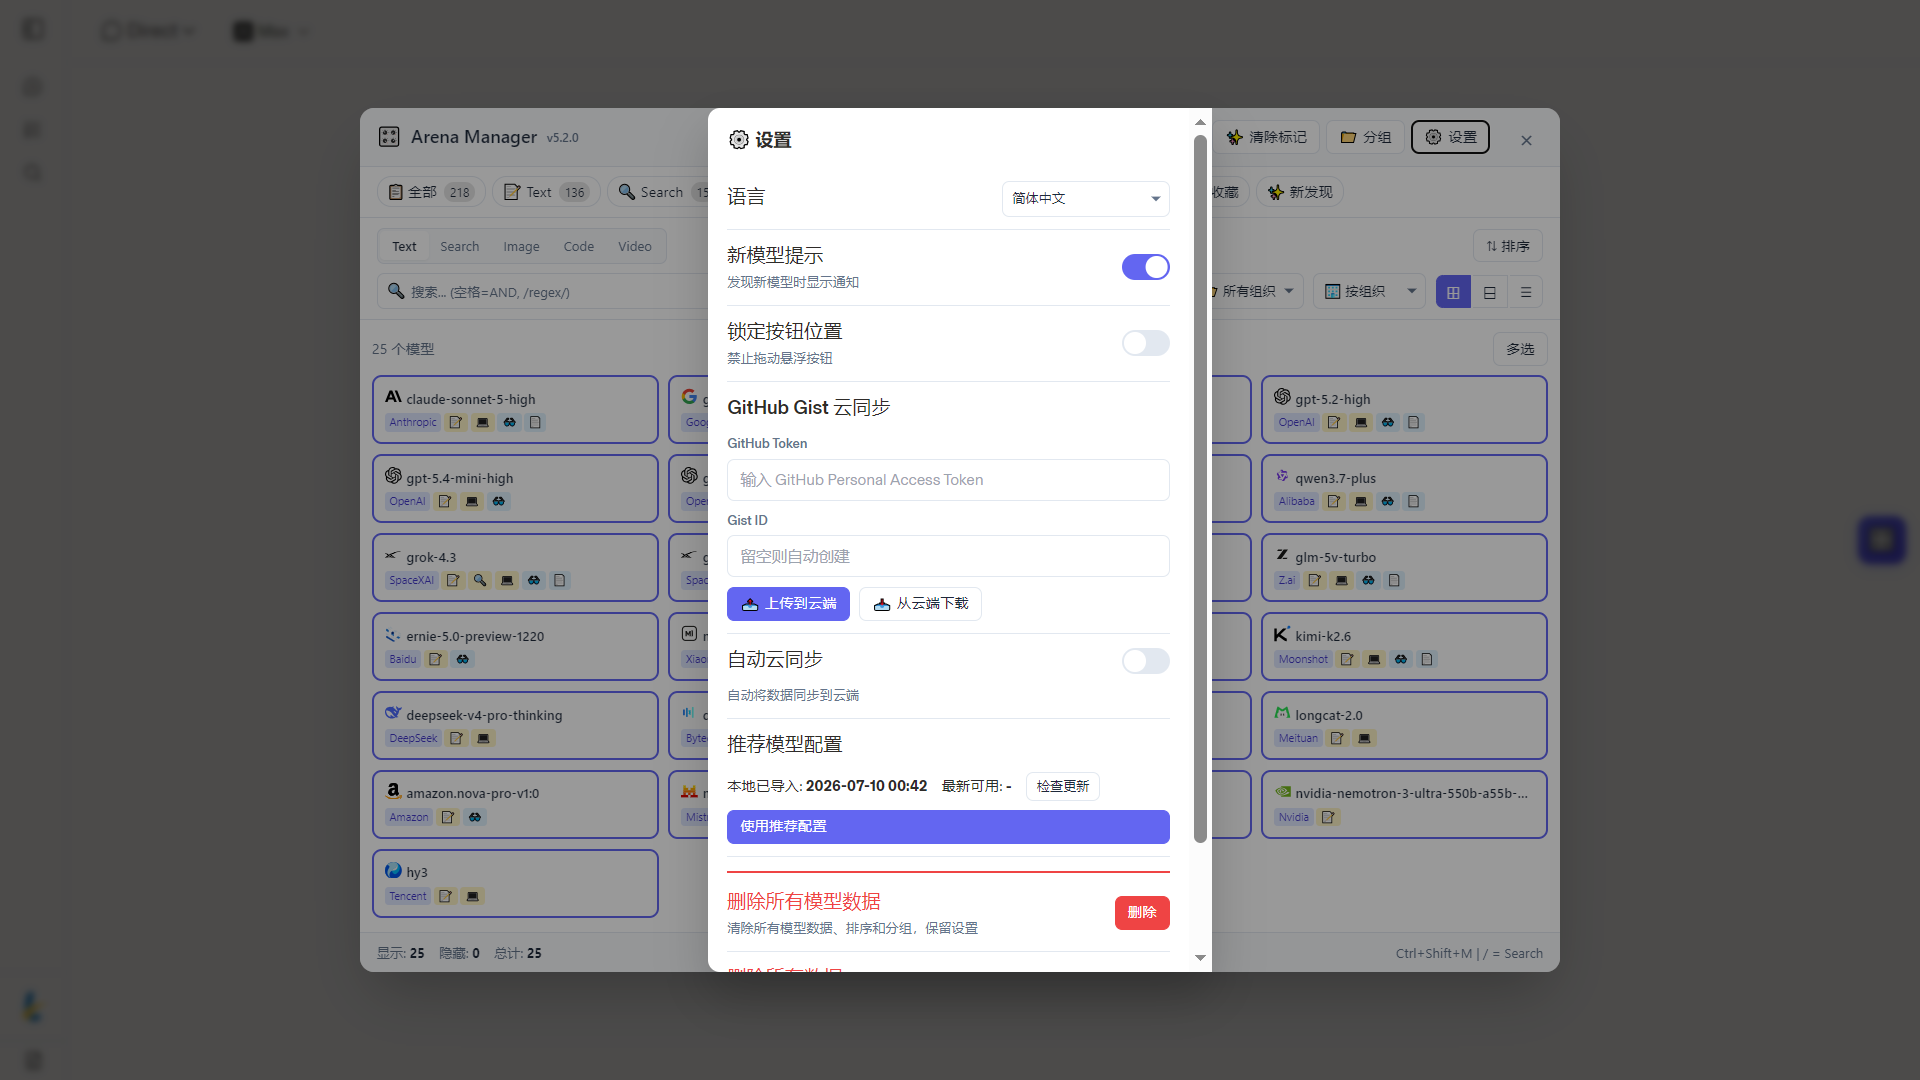
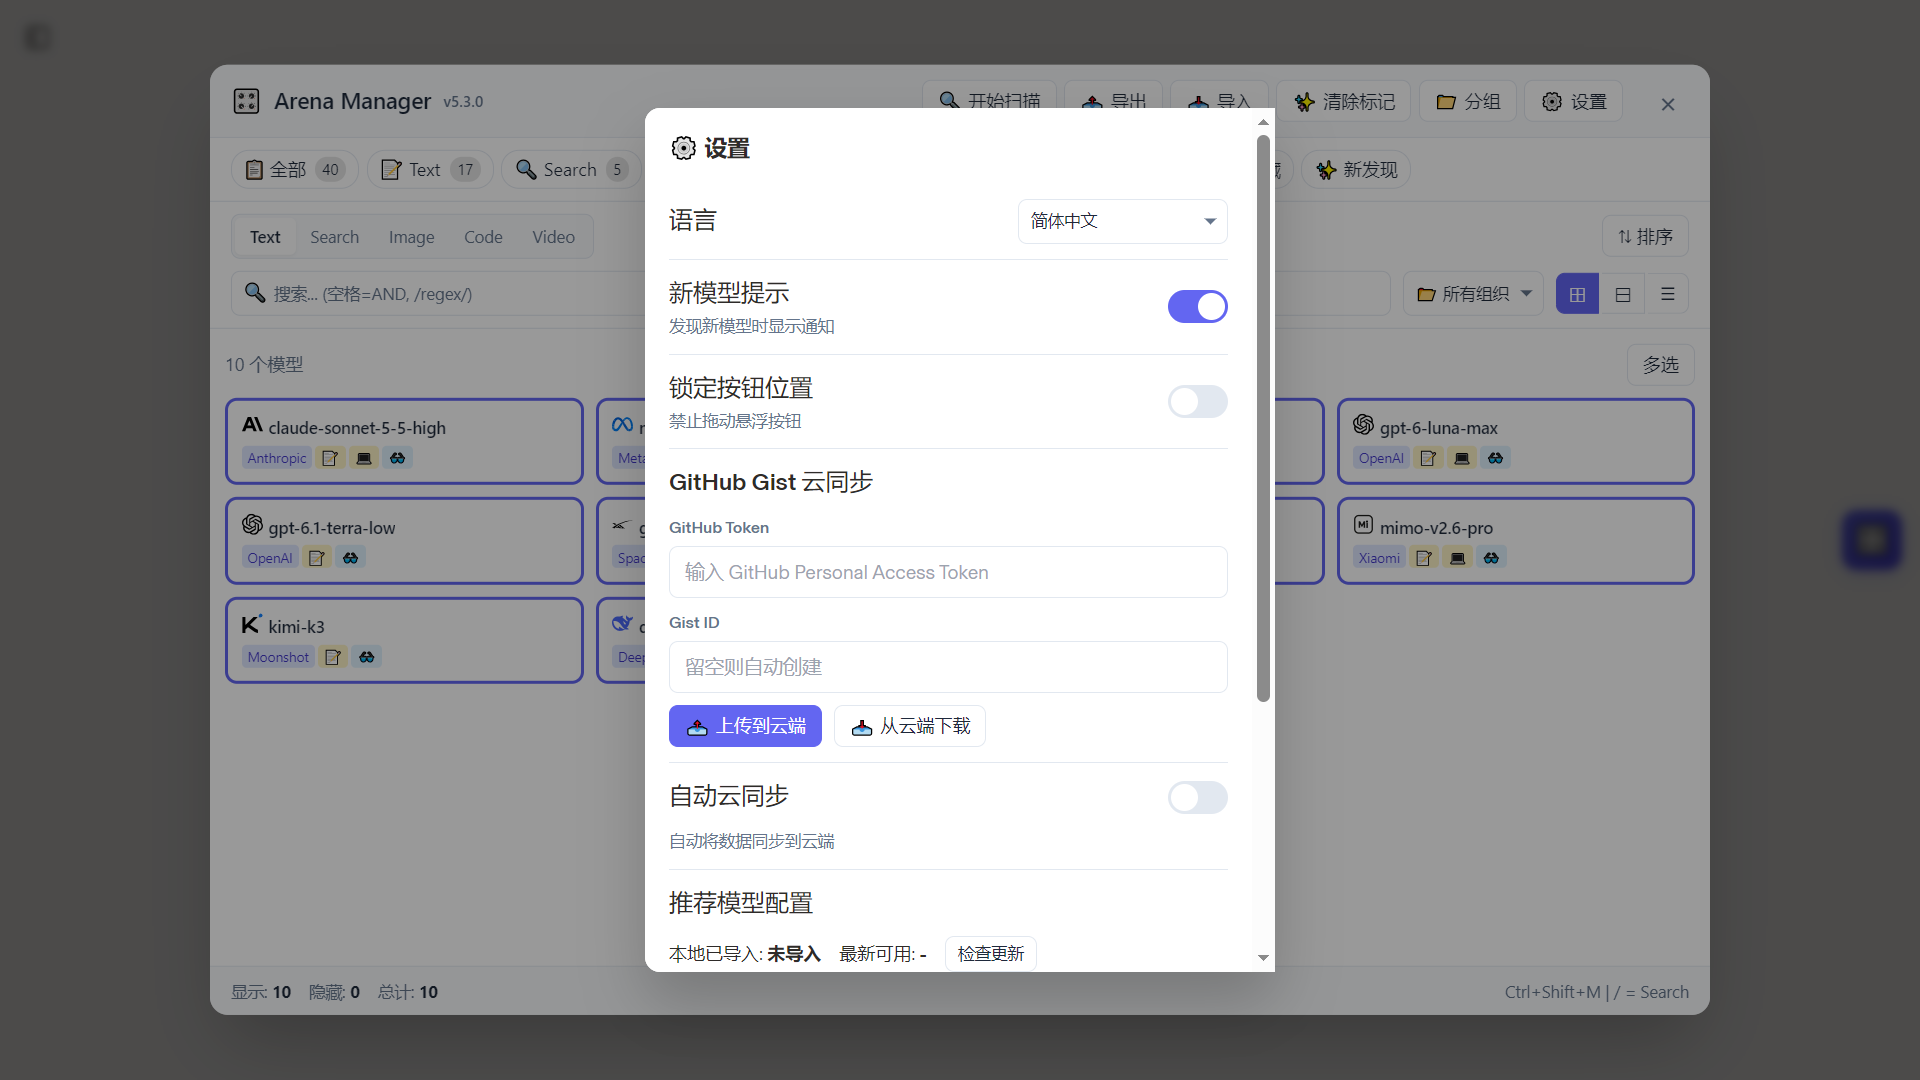
Add files via upload

diff --git a/Arena Manager.user.js b/Arena Manager.user.js
@@ -2,7 +2,7 @@
 // @name         Arena Manager
 // @namespace    http://tampermonkey.net/
 // @icon         https://arena.ai/favicon.ico
-// @version      5.3.0
+// @version      5.3.1
 // @description  智能管理 Arena 模型显示
 // @author       Jim Achievo
 // @match        *://arena.ai/*
@@ -22,7 +22,7 @@
     'use strict';
 
     const STORAGE_KEY = 'arena_manager_v5';
-    const VERSION = '5.3.0';
+    const VERSION = '5.3.1';
     const REPO_OWNER = 'JimAchievo';
     const REPO_NAME = 'Arena-Manager';
     const RECOMMENDED_FILE = 'recommended-config.json';
@@ -1659,7 +1659,7 @@
     let MODE_ORG_CONFIG = {
         text: {
             tier1: ['Anthropic', 'Meta', 'Google', 'OpenAI', 'Alibaba', 'SpaceXAI', 'Z.ai', 'Baidu', 'Xiaomi', 'Moonshot', 'DeepSeek', 'Bytedance', 'MiniMax', 'Meituan', 'Amazon', 'Mistral', 'Nvidia', 'Tencent'],
-            tier2: ['StepFun', 'Arcee AI', 'Cohere', 'Inception AI', 'Ant Group', 'Ai2', 'IBM', 'Microsoft AI', 'Prime Intellect', '01 AI', 'NexusFlow', 'AI21 Labs', 'Reka AI', 'HuggingFace', 'Databricks', 'InternLM', 'OpenChat', 'Snowflake', 'NousResearch', 'UC Berkeley', 'Upstage AI', 'Cognitive Computations', 'MosaicML', 'TII', 'UW', 'Together AI', 'Stanford', 'RWKV', 'OpenAssistant', 'Stability AI'],
+            tier2: ['Thinking Machines', 'StepFun', 'Arcee AI', 'Cohere', 'Inception AI', 'Ant Group', 'Ai2', 'IBM', 'Microsoft AI', 'Prime Intellect', '01 AI', 'NexusFlow', 'AI21 Labs', 'Reka AI', 'HuggingFace', 'Databricks', 'InternLM', 'OpenChat', 'Snowflake', 'NousResearch', 'UC Berkeley', 'Upstage AI', 'Cognitive Computations', 'MosaicML', 'TII', 'UW', 'Together AI', 'Stanford', 'RWKV', 'OpenAssistant', 'Stability AI'],
             useFolder: true
         },
         search: {
@@ -1753,6 +1753,7 @@
         { patterns: [/^step/i], company: 'StepFun', icon: '👣' },
         { patterns: [/^Together AI/i], company: 'stripedhyena', icon: '' },
         { patterns: [/^hunyuan/i], company: 'Tencent', icon: '🐧' },
+        { patterns: [/^inkling/i], company: 'Thinking Machines', icon: '🌫' },
         { patterns: [/^falcon/i], company: 'TII', icon: '' },
         { patterns: [/^starling/i], company: 'UC Berkeley', icon: '' },
         { patterns: [/^solar/i], company: 'Upstage AI', icon: '' },
@@ -3536,6 +3537,8 @@
         }
 
         showInput(title, value, onConfirm) {
+            this.inputModalOverlay.style.zIndex = '100003';
+            this.inputModal.style.zIndex = '100004';
             const field = this.inputModal.querySelector('#lmm-input-field');
             this.inputModal.querySelector('#lmm-input-title').textContent = title;
             this.inputModal.querySelector('#lmm-input-no').textContent = this.t('cancel');
@@ -3560,6 +3563,8 @@
         }
 
         showConfirm(title, msg, onConfirm) {
+            this.confirmModalOverlay.style.zIndex = '100003';
+            this.confirmModal.style.zIndex = '100004';
             this.confirmModal.querySelector('#lmm-confirm-title').textContent = title;
             this.confirmModal.querySelector('#lmm-confirm-msg').textContent = msg;
             this.confirmModal.querySelector('#lmm-confirm-no').textContent = this.t('cancel');
@@ -3608,9 +3613,7 @@
                 if (toDelete.length > 0) {
                     this.dm.deleteModels(toDelete);
                     this.scanner.toast(`${this.t('deleted')} ${toDelete.length}`, 'success');
-                    this.refresh();
-                    this.updateSidebar();
-                    this.updateTopbar();
+                    this.refreshAll();
                 }
                 closeScan();
             };
@@ -3656,9 +3659,7 @@
                     const reader = new FileReader();
                     reader.onload = ev => {
                         if (this.dm.import(ev.target.result)) {
-                            this.refresh();
-                            this.updateSidebar();
-                            this.updateTopbar();
+                            this.refreshAll();
                             this.scanner.toast(this.t('importSuccess'), 'success');
                         } else {
                             this.scanner.toast(this.t('importFailed'), 'warning');
@@ -3671,8 +3672,7 @@
 
             this.$('#lmm-clear-new').onclick = () => {
                 this.dm.clearNewFlags();
-                this.refresh();
-                this.updateFabBadge();
+                this.refreshAll();
                 this.scanner.toast(this.t('marksCleared'), 'success');
             };
 
@@ -3818,6 +3818,7 @@
             const counts = this.getModeCounts();
             const groups = this.dm.getGroupNames();
             const topbar = this.$('#lmm-topbar');
+            const keepScroll = topbar.scrollLeft;
 
             const items = [
                 { key: 'all', icon: '📋', label: this.t('all'), count: counts.all },
@@ -3846,6 +3847,7 @@
             }
 
             topbar.innerHTML = html;
+            topbar.scrollLeft = keepScroll;
             topbar.querySelectorAll('.lmm-topbar-item').forEach(item => {
                 item.onclick = () => {
                     this.currentMode = item.dataset.mode;
@@ -3952,7 +3954,10 @@
                 html += `<div class="lmm-sidebar-header" style="margin-top:12px"><span class="lmm-sidebar-title">${this.t('features')}</span></div><div id="lmm-features-list"></div>`;
             }
 
-            this.$('#lmm-sidebar').innerHTML = html;
+            const sidebarEl = this.$('#lmm-sidebar');
+            const keepSidebarScroll = sidebarEl.scrollTop;
+            sidebarEl.innerHTML = html;
+            sidebarEl.scrollTop = keepSidebarScroll;
 
             const orgs = {};
             modeModels.forEach(m => {
@@ -4110,7 +4115,6 @@
                     html += `<div class="lmm-sidebar-separator" id="lmm-tier-separator">── ${this.t('moreOrgs')} ──</div>`;
                 }
                 html += tier2.map(c => renderItem(c, false)).join('');
-                if (hasOther) html += renderItem({ name: 'Other', icon: '❔', cnt: hasOther.cnt }, false);
             } else {
                 html = tier1.map(c => renderItem(c, false)).join('');
                 if (tier2.length > 0) {
@@ -4383,7 +4387,7 @@
             this.selectedModels.forEach(name => {
                 this.dm.setVisibility(name, true);
             });
-            this.refresh();
+            this.refreshAll();
             this.scanner.applyFilters();
         }
 
@@ -4391,7 +4395,7 @@
             this.selectedModels.forEach(name => {
                 this.dm.setVisibility(name, false);
             });
-            this.refresh();
+            this.refreshAll();
             this.scanner.applyFilters();
         }
 
@@ -4926,7 +4930,7 @@
                 batch.querySelector('#lmm-multi-invert').onclick = () => this.multiInvert();
                 batch.querySelector('#lmm-multi-revert').onclick = () => {
                     this.revertMultiSelectChanges();
-                    this.refresh();
+                    this.refreshAll();
                 };
                 batch.querySelector('#lmm-multi-exit').onclick = () => this.exitMultiSelectMode();
             } else {
@@ -4948,6 +4952,14 @@
             const order = ['text', 'search', 'image', 'code', 'video'];
             const sorted = order.filter(m => modes.includes(m));
             return sorted.length > 0 ? sorted.map(m => icons[m]) : ['❓'];
+        }
+
+        refreshAll() {
+            this.updateTopbar();
+            this.updateSubbar();
+            this.updateSidebar();
+            this.refresh();
+            this.updateFabBadge();
         }
 
         updateFilterLock() {
@@ -5050,9 +5062,7 @@
                             if (e.target.closest('.lmm-card-actions')) return;
                             const newVis = !this.dm.isVisible(name);
                             this.dm.setVisibility(name, newVis);
-                            this.refresh();
-                            this.updateStats();
-                            this.updateFabBadge();
+                            this.refreshAll();
                         };
                         card.ondblclick = () => this.openEditModal(name);
 
@@ -5061,8 +5071,7 @@
                             starBtn.onclick = (e) => {
                                 e.stopPropagation();
                                 this.dm.toggleStar(name);
-                                this.refresh();
-                                this.updateTopbar();
+                                this.refreshAll();
                             };
                         }
 
@@ -5424,22 +5433,14 @@
         dm.onChange = () => ui.triggerSyncOnChange();
         window.addEventListener('pagehide', () => dm.flush());
         ui.init();
-        scanner.onScanComplete = () => {
-            if (ui.isOpen) {
-                ui.updateSidebar();
-                ui.refresh();
-            }
-        };
+        scanner.onScanComplete = () => { if (ui.isOpen) ui.refreshAll(); };
         scanner.startObserving();
         setTimeout(() => scanner.scan(), 2000);
         // 异步加载远程配置并刷新
         dm.loadRemoteConfig().then(() => {
             dm.reidentifyAll();
             scanner.scan();
-            if (ui.isOpen) {
-                ui.updateSidebar();
-                ui.refresh();
-            }
+            if (ui.isOpen) ui.refreshAll();
         });
     }
 

diff --git a/README.md b/README.md
@@ -9,7 +9,7 @@
 - **🚀 多模式归属系统**：一个模型可以同时属于 Text 和 Code 面板，支持在不同场景下独立管理显隐和排序。
 - **🎯 "所见即所得" 精准扫描**：严格基于页面上下文识别模型类型，不再依赖不可靠的名字猜测，杜绝分类错误。
 - **🏢 智能厂商识别**：内置规则自动识别 **70 家** AI 组织（OpenAI, Google, Anthropic, DeepSeek 等），并自动加载官方 Logo。
-- **🔍 模型特性检测**：自动识别模型的视觉（Vision）和 PDF 上传能力，支持按特性筛选。
+- **🔍 模型特性检测**：自动识别模型的视觉（Vision），支持按特性筛选。
 - **🌐 原生图标动态提取**：实时从 Arena 下拉栏提取模型的原生 SVG 图标，无需依赖外部图床，图标显示更精准、同步更及时。
 - **🧠 图标指纹学习**：当遇到无法通过名称识别的新模型时，通过比对原生图标指纹自动推断其所属组织。
 - **📂 智能折叠**：自动收纳非核心组织，保持列表清爽；在模型较少的模式下自动展开。
@@ -145,6 +145,51 @@ KlingAI, Pruna, Luma AI, MiniMax, Kandinsky, Tencent, lightricks, Pika, Genmo AI
 [![Star History Chart](https://api.star-history.com/chart?repos=JimAchievo/Arena-Manager&type=date&legend=top-left&sealed_token=lpywp0Ct9S_LqiTDF82tcuu55vhPvtKPwTXi6gLeVFjNW53sHaVD837OtTYBhZAQS6cOIFKzblWLvmtzKx91QpE32YOrCHVzAur5mRmjAuIUPjExuC1hnQ)](https://www.star-history.com/?repos=JimAchievo%2FArena-Manager&type=date&legend=top-left)
 
 ## 📝 更新日志
+
+### v5.3.1 (2026-11-25)
+🔧 问题修复
+修复统计数字滞后：清除「新发现」标记后，上栏计数与悬浮按钮红点不会立即归零；单击卡片切换显隐、多选批量显隐/还原、导入配置、扫描发现新模型等操作后，上栏计数同样存在滞后，需要再点一下别处才刷新。现在所有数据变更统一触发全量刷新，计数即时同步。
+修复弹窗被遮挡：在「分组管理」中唤起重命名输入框或删除确认框时，新弹窗会被分组窗口盖住。原因是所有弹窗层级相同、叠放顺序由创建先后决定，现已为这两类对话框显式指定更高层级，不再依赖创建顺序。
+✨ 优化
+排序模式不再显示 Other：Other 固定排在列表末尾且不参与拖拽，排序时列出它没有意义；退出排序后照常显示。
+保留滚动位置：上栏与左栏在重建时保持原有滚动位置，切换显隐、收藏等操作不再让列表跳回起点。
+⚙ 技术优化
+新增统一刷新入口，替代此前分散在各处的手动刷新调用，从根上杜绝「改了数据却漏更新某处界面」这一类问题。
+
+### v5.3.0 (2026-11-24)
+🎉 重要变更
+📍 悬浮按钮全页面可用：移除"仅对话页显示"的页面检测，脚本匹配到 arena.ai 即显示按钮，Ctrl+Shift+M 处处可用。
+🎯 排序规则统一：原生下拉框、面板「已启用」、模型详情「排序位置」三处共用同一套比较器，结果不再分叉。规则为：自定义顺序 → Image 类型分组 → 组织顺序 → 名称数字自然序（9 排在 27 之前）。
+⭐ 收藏退出排序：收藏不再自动置顶，仅作管理标记。
+🚫 路由模型不再入库：Arena 的自动路由模型（Max）由网站自行置顶，不纳入面板管理，避免污染统计与排序。
+📄 移除 PDF 上传特性：Arena 已下线该标识，相关字段、筛选、标签与文案全部清除。
+🔧 问题修复
+修复模式识别失效：适配 Arena 新 UI——按钮文字被移除、激活态类名变更，改用 aria-pressed + aria-label 判定，并保留"仅剩一个可用按钮"兜底。
+修复 Meta / Baidu 图标掉色：同一 SVG 被插入多次导致渐变 id 重复，浏览器解析到隐藏容器中的定义而失败。现在每份图标实例的 id 唯一。
+修复「删除所有数据」无效：页面刷新时的兜底写盘会把旧数据写回，现在清空后上锁，任何写入不再执行。
+修复控件闪烁与点击失效：面板重绘会触发 DOM 监听器再次扫描，形成死循环。现在忽略自身界面产生的变动，且只有数据真的变化才重绘。
+修复导入备份丢失 Token：顶栏导入不再覆盖本地 GitHub Token 与仓库 Token。
+修复 / 快捷键抢占输入焦点：在输入框、文本域中 typing 时不再劫持，正则搜索 /pattern/ 现在可以正常输入。
+修复分组弹窗 Esc 关错层：确认框/输入框现在优先于底层分组窗口关闭。
+修复多选还原清除「新发现」标记：还原只恢复显隐，不再触碰标记。
+✨ 优化
+⚡ 图标按组织存储：同一组织只保存一份 SVG，模型不再各自携带图标源码；指纹改用短哈希。导出体积大幅缩减。
+⚡ 写盘合并：200ms 内的多次改动合并为一次写入，批量操作不再卡顿；页面关闭前兜底补写。
+⚡ 扫描结果缓存 + 轻量提取：排序时只取模型名，跳过徽标与 SVG 处理。
+🔄 同步触发统一：任何写盘都会触发「变更时同步」，不再遗漏组织排序、清除标记、导入、扫描新模型等场景。
+🏢 左栏排序更稳：只列出有模型的组织，退出排序不再丢失缺席组织；非模式标签下不提供排序按钮。
+🧩 进入模型排序模式时自动清空并锁定筛选，避免顺序表被筛选结果覆盖。
+🪟 分组重命名/删除改用脚本内弹窗，不再使用浏览器原生 prompt/confirm（会被浏览器拦截、语言不受控）。
+🧹 移除搜索框回车切换显隐（易误操作）。
+⚙ 技术优化
+选择器集中到 SELECTORS，扫描器不再散落字面量。
+SVG id 规范化，消除 React 随机 id 造成的"图标每次都在变"误判。
+提示条与差异对话框文本转义，防止外部配置中的名字被当作 HTML 解析。
+清理死代码与废弃文案键（9 语言同步）。
+@match 修正为 *://arena.ai/*，移除已失效的 canary 域名规则。
+
+<details>
+<summary>查看更早版本</summary>
 
 ### v5.2.1 (2026-07-10)
 
@@ -376,9 +421,6 @@ KlingAI, Pruna, Luma AI, MiniMax, Kandinsky, Tencent, lightricks, Pika, Genmo AI
 - 重构 `applyFilters()`：使用 `flex` + `order` 实现排序，不移动 DOM 节点
 - 新增 `createSettingsModal()`、`createGroupSelectModal()` 等模态框
 - 多选模式状态管理：`isMultiSelectMode`、`selectedModels`、`multiSelectBackup`
-
-<details>
-<summary>查看更早版本</summary>
 
 ### v4.5.1 (2026-01-27)
 
